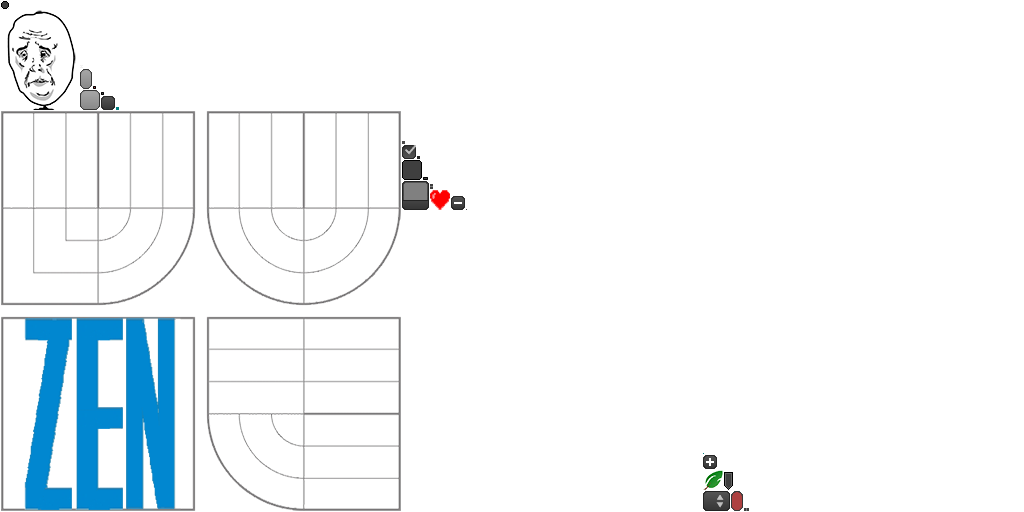
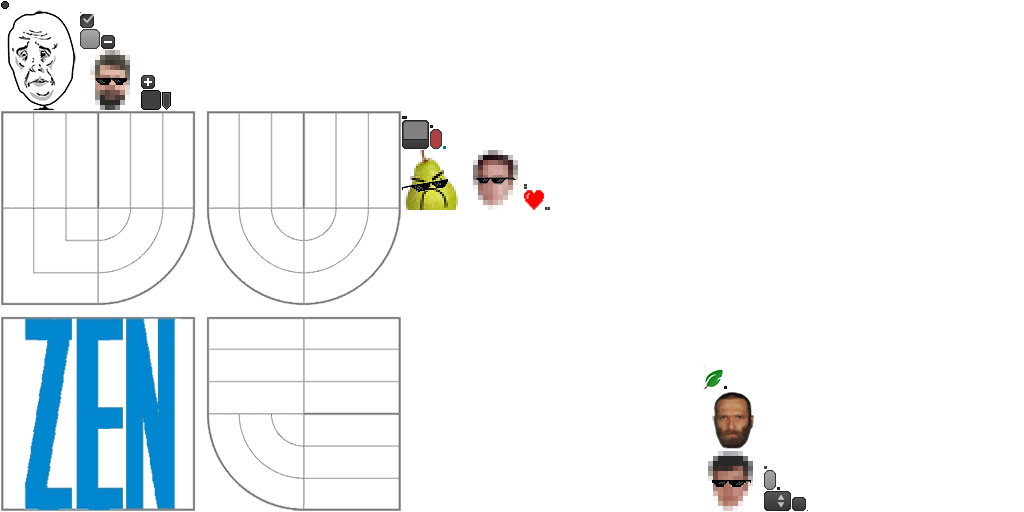
obliceje bossu

Changed region(s): [[0.375, 0.2188, 0.5312, 0.4375], [0.6875, 0.7188, 0.8125, 1.0], [0.0625, 0.0312, 0.1875, 0.2188]]

diff --git a/zen/src/cz/emo4d/zen/ui/GameGuiStage.java b/zen/src/cz/emo4d/zen/ui/GameGuiStage.java
@@ -8,6 +8,9 @@ import com.badlogic.gdx.graphics.g2d.Animation;
 import com.badlogic.gdx.graphics.g2d.TextureRegion;
 import com.badlogic.gdx.scenes.scene2d.Actor;
 import com.badlogic.gdx.scenes.scene2d.InputEvent;
+import com.badlogic.gdx.scenes.scene2d.actions.Actions;
+import com.badlogic.gdx.scenes.scene2d.actions.RunnableAction;
+import com.badlogic.gdx.scenes.scene2d.actions.SequenceAction;
 import com.badlogic.gdx.scenes.scene2d.ui.Dialog;
 import com.badlogic.gdx.scenes.scene2d.ui.Image;
 import com.badlogic.gdx.scenes.scene2d.ui.Label;
@@ -17,6 +20,7 @@ import com.badlogic.gdx.scenes.scene2d.utils.ClickListener;
 import com.badlogic.gdx.scenes.scene2d.utils.Drawable;
 
 import cz.emo4d.zen.Zen;
+import cz.emo4d.zen.Zen.BossPerson;
 import cz.emo4d.zen.gameplay.Player;
 import cz.emo4d.zen.gameplay.PlayerManager;
 import cz.emo4d.zen.screens.GameScreen;
@@ -33,6 +37,7 @@ public class GameGuiStage extends BaseStage {
 
 	private Table rootPlayer;
 	private Table subplayers;
+	private Table dialogRoot;
 
 
 	public GameGuiStage(GameScreen screen, PlayerManager manager) {
@@ -46,14 +51,18 @@ public class GameGuiStage extends BaseStage {
 
 		Table playerGui = createMainPlayerGui(playerManager.getMainPlayer());
 		rootPlayer.add(playerGui).left().spaceBottom(50);
+		rootPlayer.add().expandX();
+
+		dialogRoot = new Table(skin);
+		rootPlayer.add(dialogRoot).top().right();
 
 		subplayers = new Table(skin);
 		//		subplayers.debug();
 		rootPlayer.row();
-		rootPlayer.add(subplayers).left();
+		rootPlayer.add(subplayers).left().colspan(2);
 
 		rootPlayer.row();
-		rootPlayer.add().expand();
+		rootPlayer.add().colspan(2).expand();
 
 		addActor(rootPlayer);
 
@@ -78,6 +87,54 @@ public class GameGuiStage extends BaseStage {
 	}
 
 
+	public void showGameDialog(BossPerson boss, String msg, float time) {
+		if (dialogRoot.getChildren().size > 0)
+			dialogRoot.clear();
+
+		Table box = new Table(skin);
+		box.setBackground(skin.getDrawable("gray-transparent"));
+
+		Image bossImg = getBossImage(boss);
+
+		box.add(new Label(msg, skin)).center().width(300).height(60).pad(10);
+		box.add(bossImg).width(60).height(60).pad(10);
+
+		SequenceAction action = new SequenceAction();
+		action.addAction(Actions.delay(time));
+		action.addAction(Actions.fadeOut(1));
+		action.addAction(Actions.removeActor());
+		action.addAction(new RunnableAction() {
+			@Override
+			public void run() {
+				dialogRoot.clear();
+			}
+		});
+		box.addAction(action);
+
+		dialogRoot.add(box).top().right();
+	}
+
+	private Image getBossImage(BossPerson boss) {
+		String file = null;
+
+		switch (boss) {
+			case PP:
+				file = "boss-pp";
+				break;
+			case HRUSKA:
+				file = "boss-hruska";
+				break;
+			case KOLAR:
+				file = "boss-kolar";
+				break;
+			case KRENA:
+				file = "boss-krena";
+				break;
+		}
+
+		Drawable drw = skin.getDrawable(file);
+		return new Image(drw);
+	}
 
 
 	private Table createMainPlayerGui(Player p) {

diff --git a/zen/src/cz/emo4d/zen/screens/GameScreen.java b/zen/src/cz/emo4d/zen/screens/GameScreen.java
@@ -17,6 +17,7 @@ import com.badlogic.gdx.scenes.scene2d.actions.SequenceAction;
 import com.badlogic.gdx.scenes.scene2d.ui.Table;
 
 import cz.emo4d.zen.Zen;
+import cz.emo4d.zen.Zen.BossPerson;
 import cz.emo4d.zen.gameplay.BulletManager;
 import cz.emo4d.zen.gameplay.EffectManager;
 import cz.emo4d.zen.gameplay.Enemy;
@@ -165,6 +166,9 @@ public class GameScreen extends BaseScreen implements DeviceEventHandler {
 	}
 
 	float lastTime = 0;
+
+
+
 
 
 	@Override
@@ -349,6 +353,14 @@ public class GameScreen extends BaseScreen implements DeviceEventHandler {
 
 
 
+
+	public void showDialog(BossPerson person, String msg, float time) {
+		gui.showGameDialog(person, msg, time);
+	}
+
+
+
+
 	@Override
 	public void acceptEvent(int type, int device, float X, float Y) {
 		if (type == DeviceEvent.MOVE) {
@@ -392,6 +404,8 @@ public class GameScreen extends BaseScreen implements DeviceEventHandler {
 	@Override
 	public void show() {
 		super.show();
+
+		showDialog(Zen.currentBoss, "YOU SHALL\nNOT PASS !!!", 10);
 
 		Gdx.input.setInputProcessor(inputMpx);
 	}

diff --git a/zen/src/cz/emo4d/zen/Zen.java b/zen/src/cz/emo4d/zen/Zen.java
@@ -13,7 +13,7 @@ public class Zen extends Game {
 	private GameScreen game;
 
 	public enum BossPerson {
-		PP, KRENA, HRUSKA, KOLAR
+		PP, KRENA, HRUSKA, KOLAR, ZDENEK
 	}
 
 	public final static ObjectMap<String, BossPerson> bossTypes = new ObjectMap<String, BossPerson>();
@@ -24,9 +24,6 @@ public class Zen extends Game {
 	@Override
 	public void create() {
 		initBosses();
-
-		game = new GameScreen(this);
-		menu = new MainMenuScreen(this);
 
 		if (true) {
 			showMenuScreen();
@@ -55,12 +52,18 @@ public class Zen extends Game {
 
 
 	public void showGameScreen() {
+		if (game == null)
+			game = new GameScreen(this);
+
 		setScreen(game);
 	}
 
 
 
 	public void showMenuScreen() {
+		if (menu == null)
+			menu = new MainMenuScreen(this);
+
 		setScreen(menu);
 	}
 
